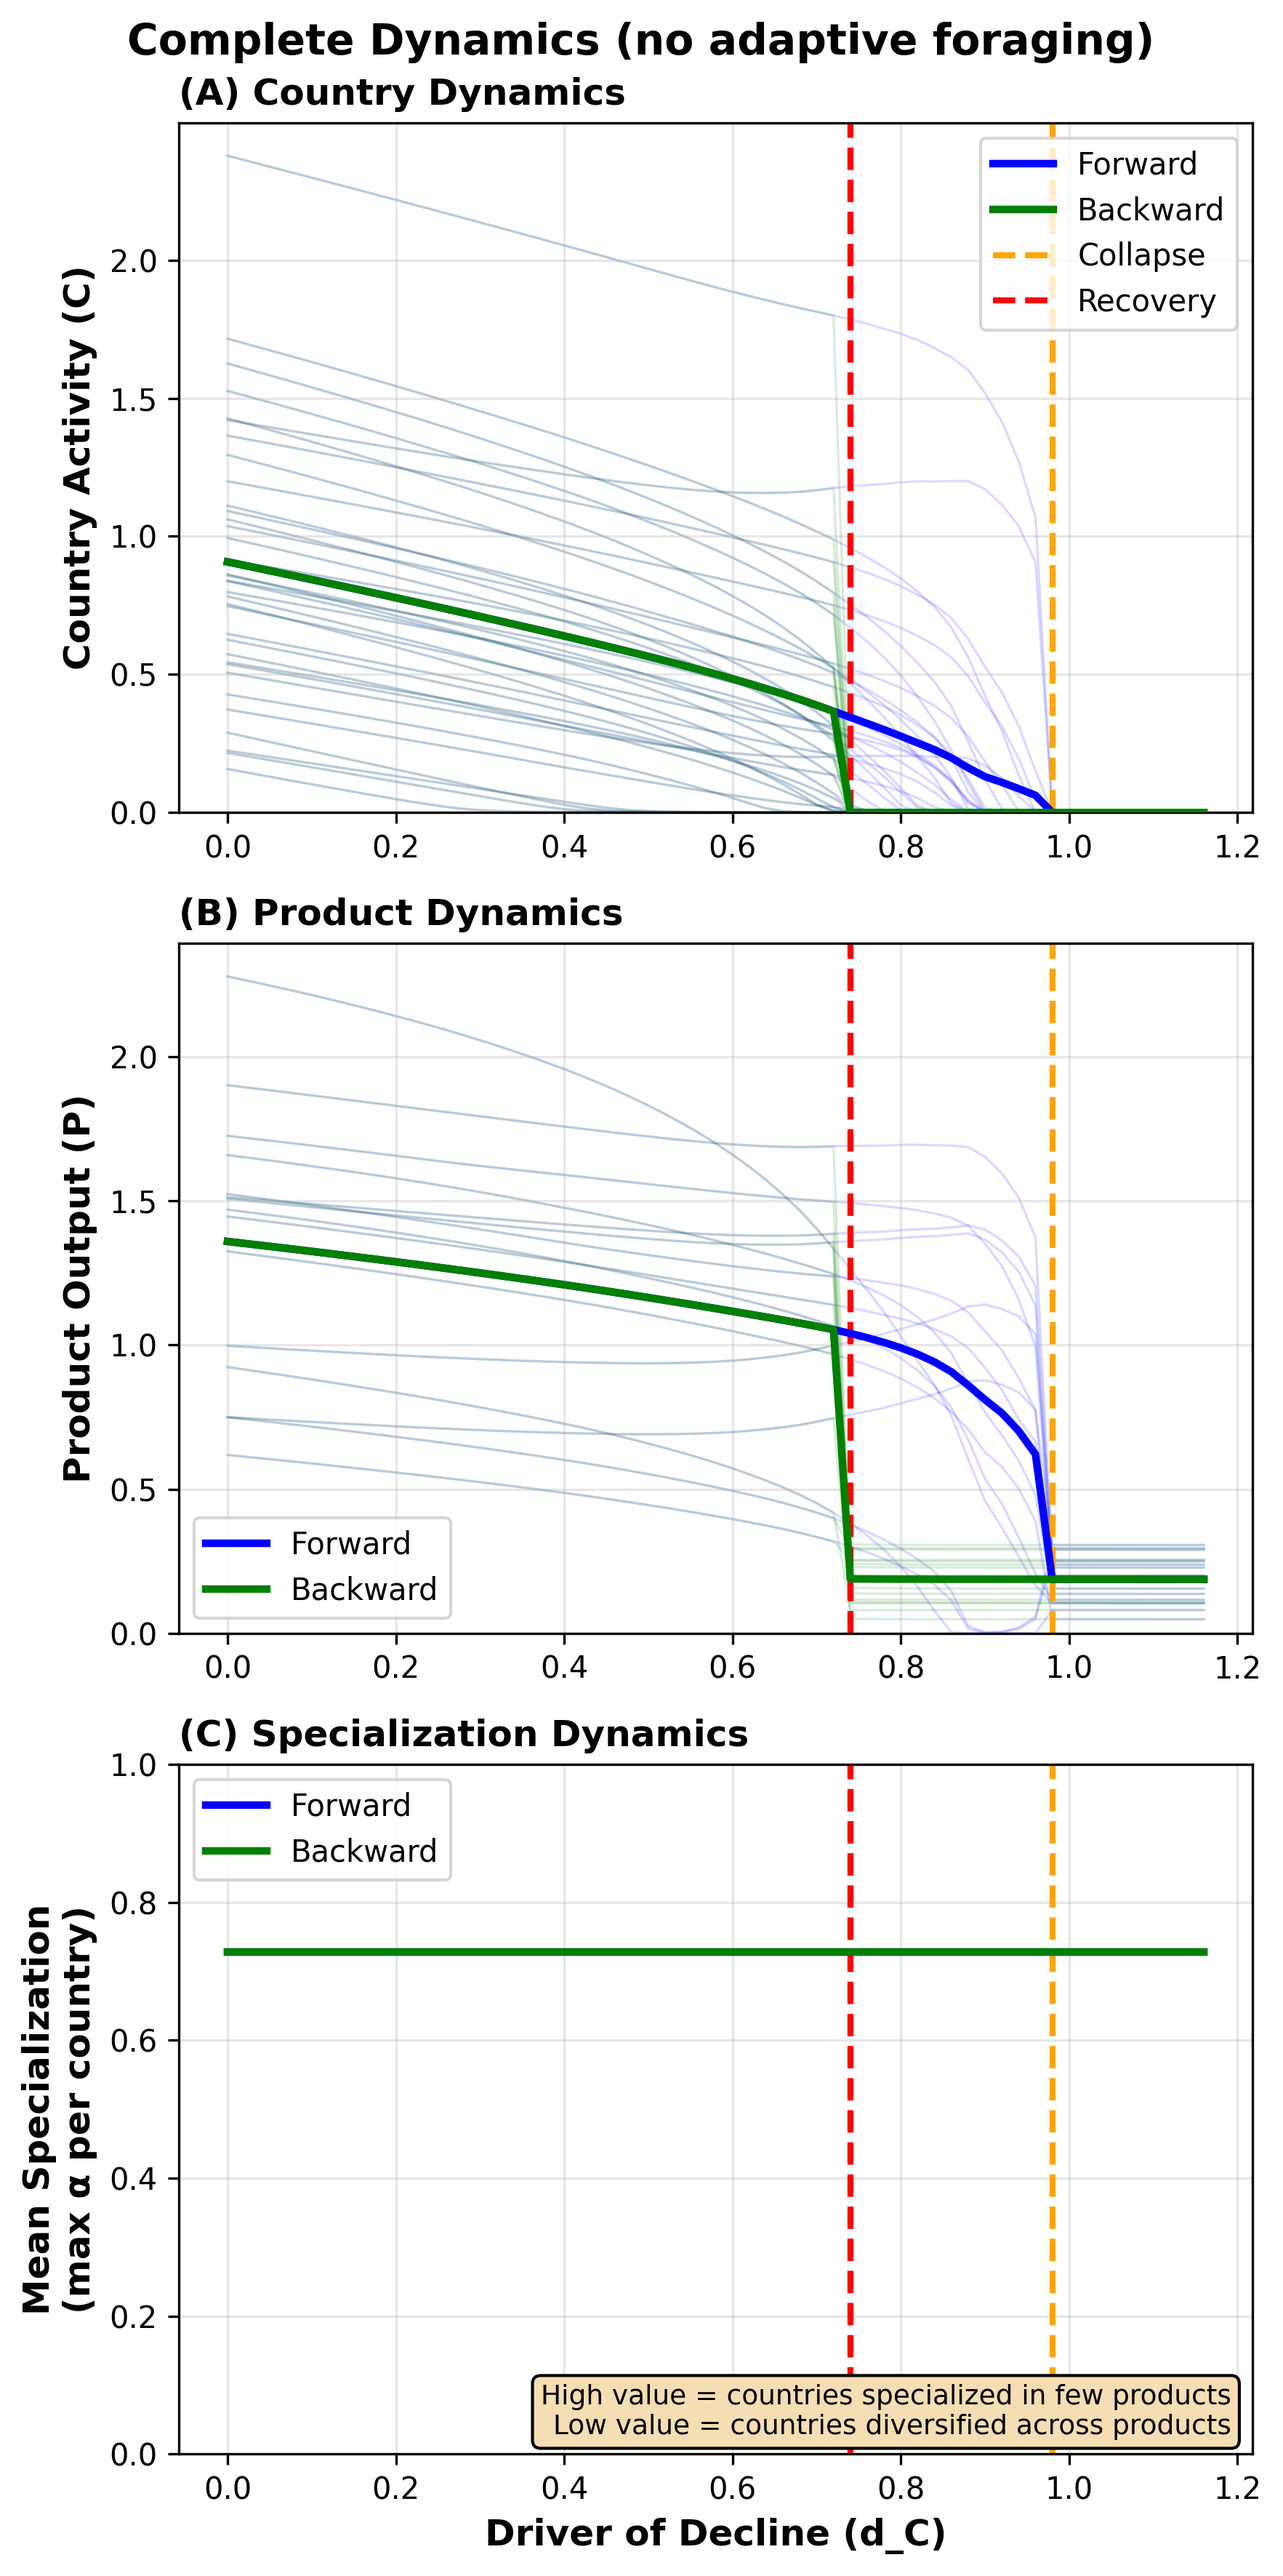
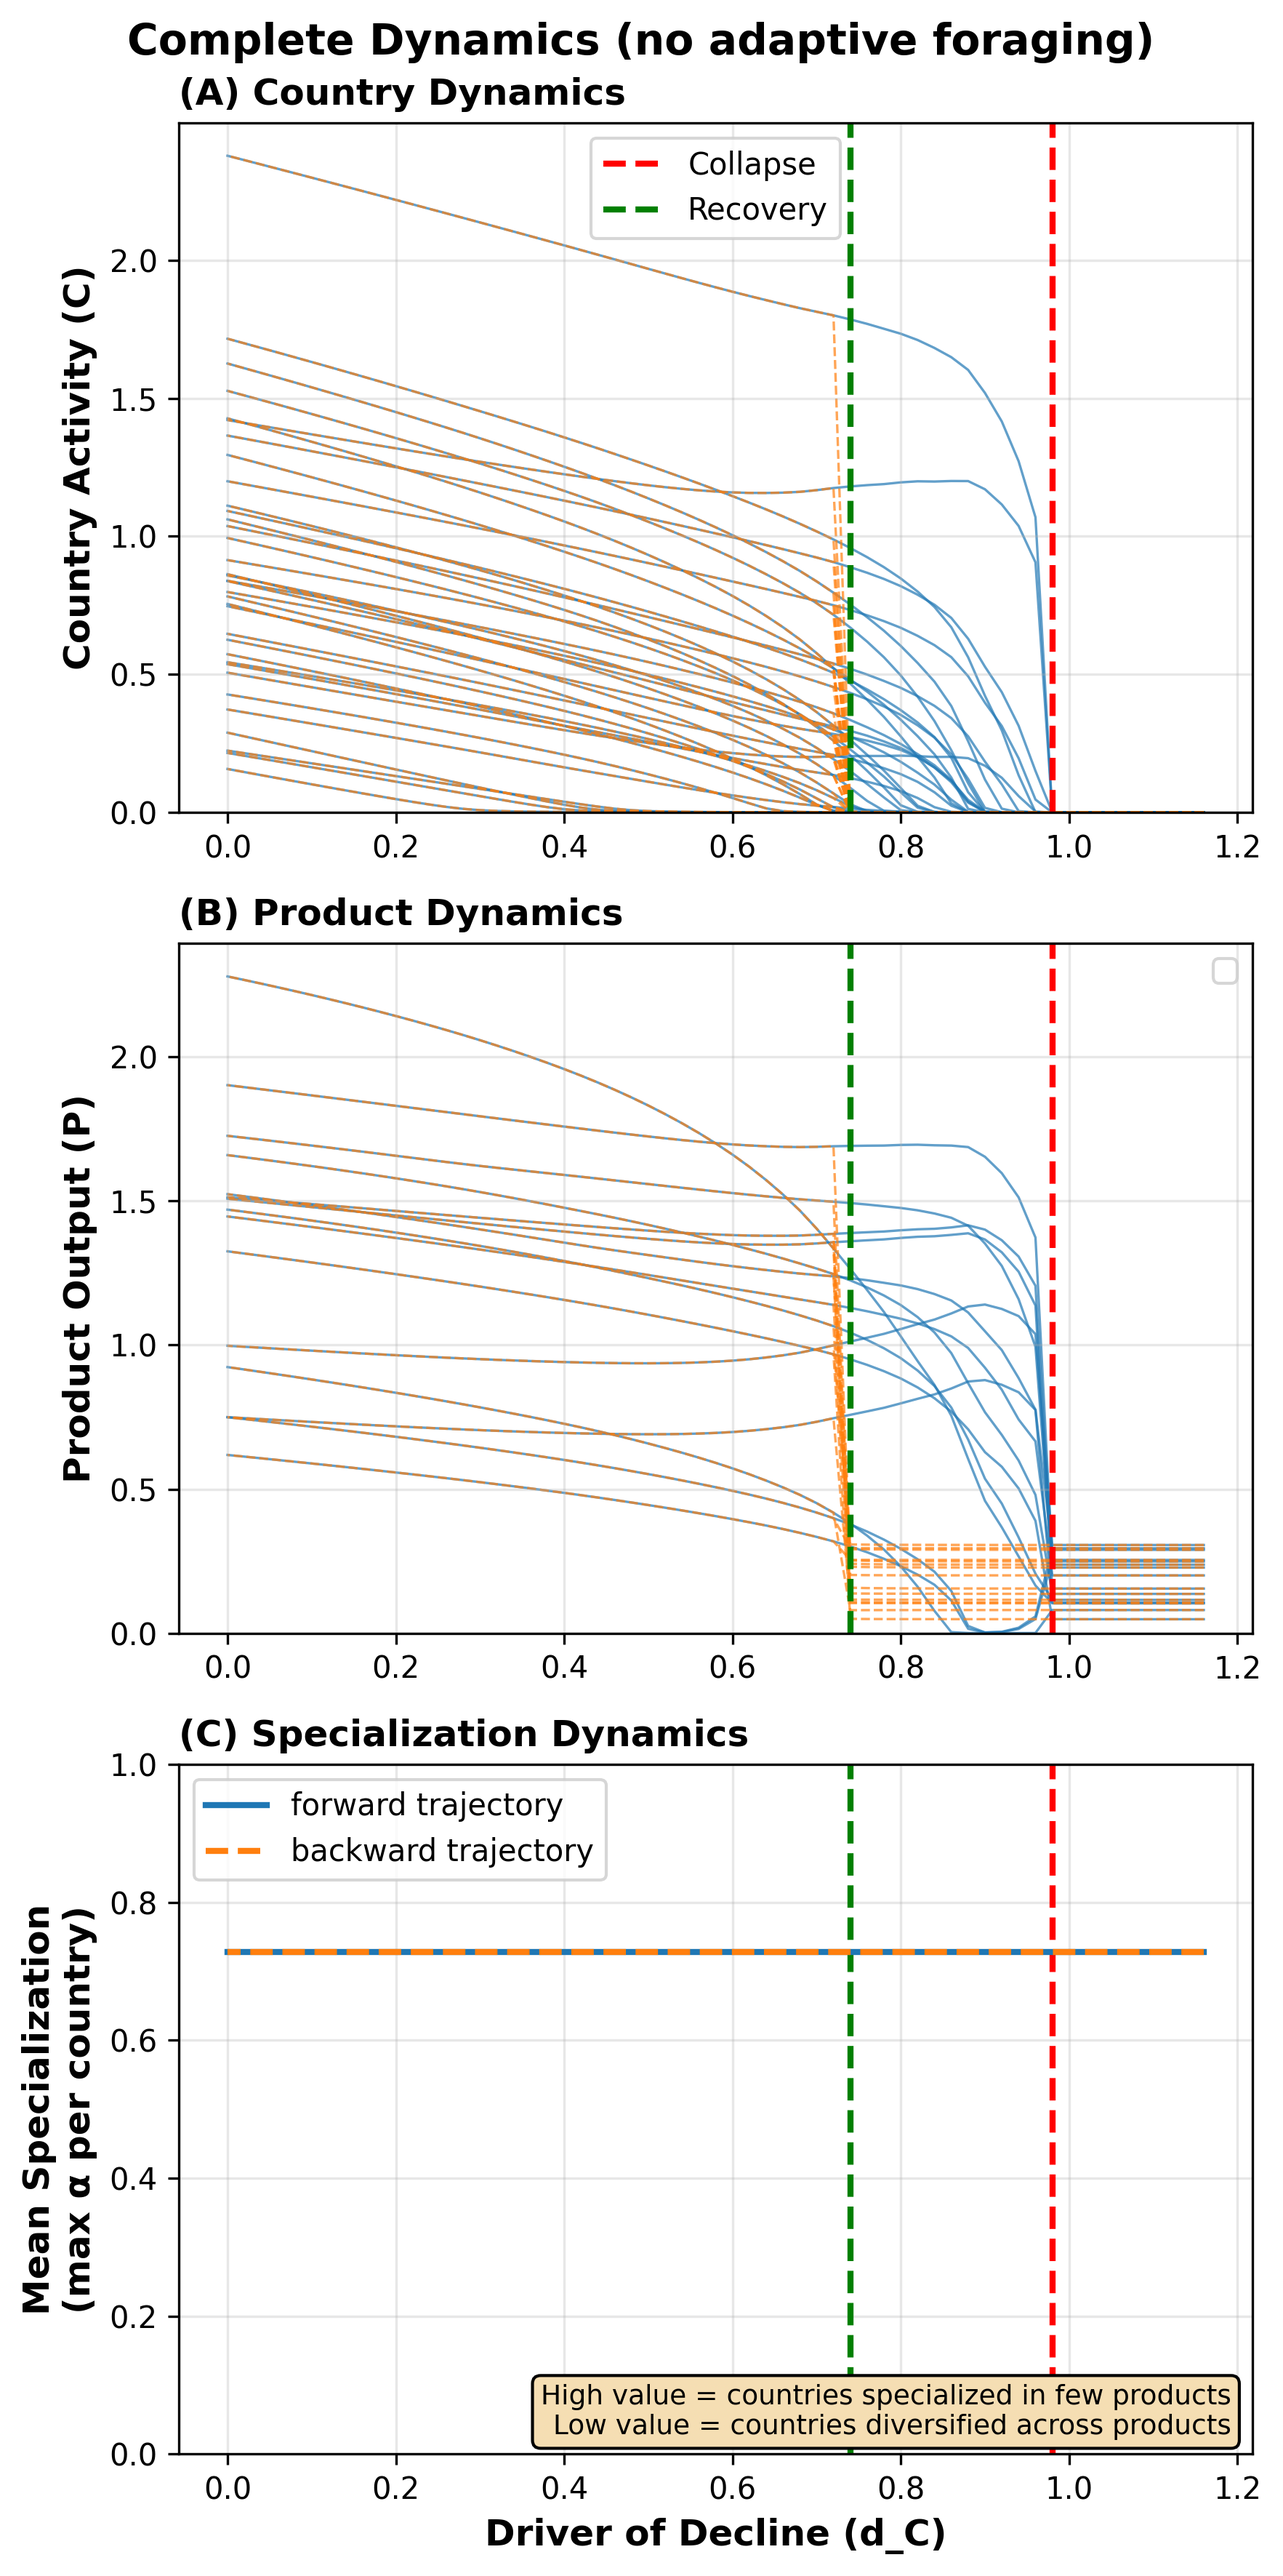
new plot for network nestedness

diff --git a/plot_analysis.py b/plot_analysis.py
@@ -3,6 +3,45 @@ import numpy as np
 import os
 from base_model import BaseModel
 
+COL_FORWARD  = "#1f77b4"   # blue  – forward trajectory
+COL_BACKWARD = "#ff7f0e"   # orange – backward trajectory
+
+def plot_network_structure(model: BaseModel):
+    """
+    Display the adjacency matrix (nested network) and the forbidden-links matrix
+    for the given model's generated network.
+    Species are sorted by degree (descending) so the characteristic nested
+    triangular pattern is visible, matching Fig A of the supporting information.
+    """
+    fig, axes = plt.subplots(1, 2, figsize=(9, 4))
+
+    # Sort species by degree (descending) so the nested triangular pattern is visible
+    pollinator_order = np.argsort(-model.adj_matrix.sum(axis=1))  # SC indices, most connected first
+    plant_order      = np.argsort(-model.adj_matrix.sum(axis=0))  # SP indices, most connected first
+
+    for ax, mat, title in zip(
+        axes,
+        [model.adj_matrix, model.forbidden_network],
+        [f"Nestedness = {model.nestedness:.1f}",
+         f"Forbidden Links = {model.forbidden_links:.1f}"],
+    ):
+        # Reorder rows (pollinators) and columns (plants) by degree, then transpose
+        # so that plant species appear on y-axis and pollinator species on x-axis
+        sorted_mat = mat[pollinator_order, :][:, plant_order].T
+        ax.imshow(
+            sorted_mat, aspect="auto", cmap="Greys",
+            interpolation="none", vmin=0, vmax=1, origin="lower"
+        )
+        ax.set_xlabel("Pollinator species", fontsize=11)
+        ax.set_ylabel("Plant species",      fontsize=11)
+        ax.set_title(title,                 fontsize=12)
+
+    fig.suptitle(
+        f"Network structure  (nestedness={model.nestedness:.1f})",
+        fontsize=13,
+    )
+    fig.tight_layout()
+    return fig
 
 def plot_C_P_alpha_dynamics(model: BaseModel, critical_data: dict, title: str='System Dynamics'):
     """
@@ -16,26 +55,18 @@ def plot_C_P_alpha_dynamics(model: BaseModel, critical_data: dict, title: str='S
     # Panel 1: Country Dynamics
     ax = axes[0]
     
-    # Plot mean
-    C_forward_mean = critical_data['C_forward'].mean(axis=1)
-    C_backward_mean = critical_data['C_backward'].mean(axis=1)
-    ax.plot(critical_data['d_C_forward'], C_forward_mean, 
-            'b-', linewidth=2.5, label='Forward', zorder=3)
-    ax.plot(critical_data['d_C_backward'], C_backward_mean, 
-            'g-', linewidth=2.5, label='Backward', zorder=3)
-    
     # Plot individuals
     for i in range(critical_data['C_forward'].shape[1]):
-        ax.plot(critical_data['d_C_forward'], critical_data['C_forward'][:, i], 
-                'b-', alpha=0.15, linewidth=0.8, zorder=1)
+        ax.plot(critical_data['d_C_forward'], critical_data['C_forward'][:, i],
+                color=COL_FORWARD, alpha=0.7, linewidth=0.8, zorder=1)
     for i in range(critical_data['C_backward'].shape[1]):
-        ax.plot(critical_data['d_C_backward'], critical_data['C_backward'][:, i], 
-                'g-', alpha=0.15, linewidth=0.8, zorder=1)
+        ax.plot(critical_data['d_C_backward'], critical_data['C_backward'][:, i],
+                color=COL_BACKWARD, alpha=0.7, linewidth=0.8, ls='--', zorder=1)
     
     # Critical points
-    ax.axvline(critical_data['d_collapse'], color='orange', linestyle='--', 
+    ax.axvline(critical_data['d_collapse'], color='red', linestyle='--', 
               linewidth=2, label=f"Collapse", zorder=2)
-    ax.axvline(critical_data['d_recovery'], color='red', linestyle='--', 
+    ax.axvline(critical_data['d_recovery'], color='green', linestyle='--', 
               linewidth=2, label=f"Recovery", zorder=2)
     
     ax.set_ylabel('Country Activity (C)', fontsize=12, fontweight='bold')
@@ -47,26 +78,18 @@ def plot_C_P_alpha_dynamics(model: BaseModel, critical_data: dict, title: str='S
     # Panel 2: Product Dynamics
     ax = axes[1]
     
-    # Plot mean
-    P_forward_mean = critical_data['P_forward'].mean(axis=1)
-    P_backward_mean = critical_data['P_backward'].mean(axis=1)
-    ax.plot(critical_data['d_C_forward'], P_forward_mean, 
-            'b-', linewidth=2.5, label='Forward', zorder=3)
-    ax.plot(critical_data['d_C_backward'], P_backward_mean, 
-            'g-', linewidth=2.5, label='Backward', zorder=3)
-    
     # Plot individuals
     for i in range(critical_data['P_forward'].shape[1]):
-        ax.plot(critical_data['d_C_forward'], critical_data['P_forward'][:, i], 
-                'b-', alpha=0.15, linewidth=0.8, zorder=1)
+        ax.plot(critical_data['d_C_forward'], critical_data['P_forward'][:, i],
+                color=COL_FORWARD, alpha=0.7, linewidth=0.8, zorder=1)
     for i in range(critical_data['P_backward'].shape[1]):
-        ax.plot(critical_data['d_C_backward'], critical_data['P_backward'][:, i], 
-                'g-', alpha=0.15, linewidth=0.8, zorder=1)
+        ax.plot(critical_data['d_C_backward'], critical_data['P_backward'][:, i],
+                color=COL_BACKWARD, alpha=0.7, linewidth=0.8, ls='--', zorder=1)
     
     # Critical points
-    ax.axvline(critical_data['d_collapse'], color='orange', linestyle='--', 
+    ax.axvline(critical_data['d_collapse'], color='red', linestyle='--', 
               linewidth=2, zorder=2)
-    ax.axvline(critical_data['d_recovery'], color='red', linestyle='--', 
+    ax.axvline(critical_data['d_recovery'], color='green', linestyle='--', 
               linewidth=2, zorder=2)
     
     ax.set_ylabel('Product Output (P)', fontsize=12, fontweight='bold')
@@ -90,15 +113,16 @@ def plot_C_P_alpha_dynamics(model: BaseModel, critical_data: dict, title: str='S
     spec_forward = compute_mean_specialization(critical_data['alpha_forward'])
     spec_backward = compute_mean_specialization(critical_data['alpha_backward'])
     
-    ax.plot(critical_data['d_C_forward'], spec_forward, 
-            'b-', linewidth=2.5, label='Forward', zorder=3)
-    ax.plot(critical_data['d_C_backward'], spec_backward, 
-            'g-', linewidth=2.5, label='Backward', zorder=3)
+    ax.plot(critical_data['d_C_forward'],  spec_forward,
+            color=COL_FORWARD,  lw=2.0, label='forward trajectory', zorder=3)
+    ax.plot(critical_data['d_C_backward'], spec_backward,
+            color=COL_BACKWARD, lw=2.0, ls='--', label='backward trajectory', zorder=3)
+
     
     # Critical points
-    ax.axvline(critical_data['d_collapse'], color='orange', linestyle='--', 
+    ax.axvline(critical_data['d_collapse'], color='red', linestyle='--', 
               linewidth=2, zorder=2)
-    ax.axvline(critical_data['d_recovery'], color='red', linestyle='--', 
+    ax.axvline(critical_data['d_recovery'], color='green', linestyle='--', 
               linewidth=2, zorder=2)
     
     ax.set_xlabel('Driver of Decline (d_C)', fontsize=12, fontweight='bold')
@@ -131,6 +155,7 @@ def verify_base_model():
     q = 0.0
     print(f"Testing WITHOUT adaptive foraging (nu={nu}, q={q})...")
     model_no_adapt = BaseModel(nu=nu, q=q, seed=133)
+    fig_net_no_adapt = plot_network_structure(model_no_adapt)
     critical_data_no_adapt = model_no_adapt.find_critical_points()
     fig1 = plot_C_P_alpha_dynamics(
         model_no_adapt, 
@@ -139,7 +164,7 @@ def verify_base_model():
     )
 
     # With adaptive foraging
-    nu = 0.3
+    nu = 0.6
     q = 0.0
     print(f"Testing WITH adaptive foraging (nu={nu}, q={q})...")
     model_adapt = BaseModel(nu=nu, q=q, seed=133)
@@ -164,7 +189,7 @@ def verify_base_model():
     print(f"  Hysteresis = {critical_data_adapt['d_collapse'] - critical_data_adapt['d_recovery']:.3f}")
 
     return {
-        'figures': {'no_adapt': fig1, 'adapt': fig2},
+        'figures': {'no_adapt': fig1, 'adapt': fig2, 'network_no_adapt': fig_net_no_adapt},
         'data': {'no_adapt': critical_data_no_adapt, 'adapt': critical_data_adapt}
     }
 
@@ -177,6 +202,7 @@ if __name__ == "__main__":
     os.makedirs('Figures', exist_ok=True)
     
     # Save figures
+    results['figures']['network_no_adapt'].savefig('Figures/network_structure_no_adapt.png', dpi=300, bbox_inches='tight')
     results['figures']['no_adapt'].savefig('Figures/dynamics_no_adapt.png', dpi=300, bbox_inches='tight')
     results['figures']['adapt'].savefig('Figures/dynamics_adapt.png', dpi=300, bbox_inches='tight')
     

diff --git a/base_model.py b/base_model.py
@@ -310,7 +310,7 @@ class BaseModel:
         """
         Holling type-II function: rho / (1 + h*rho).
 
-        Different from the one in paper!
+        Different from the one in paper (which does not work)!
         """
         return rho / (1.0 + h * rho)
 
